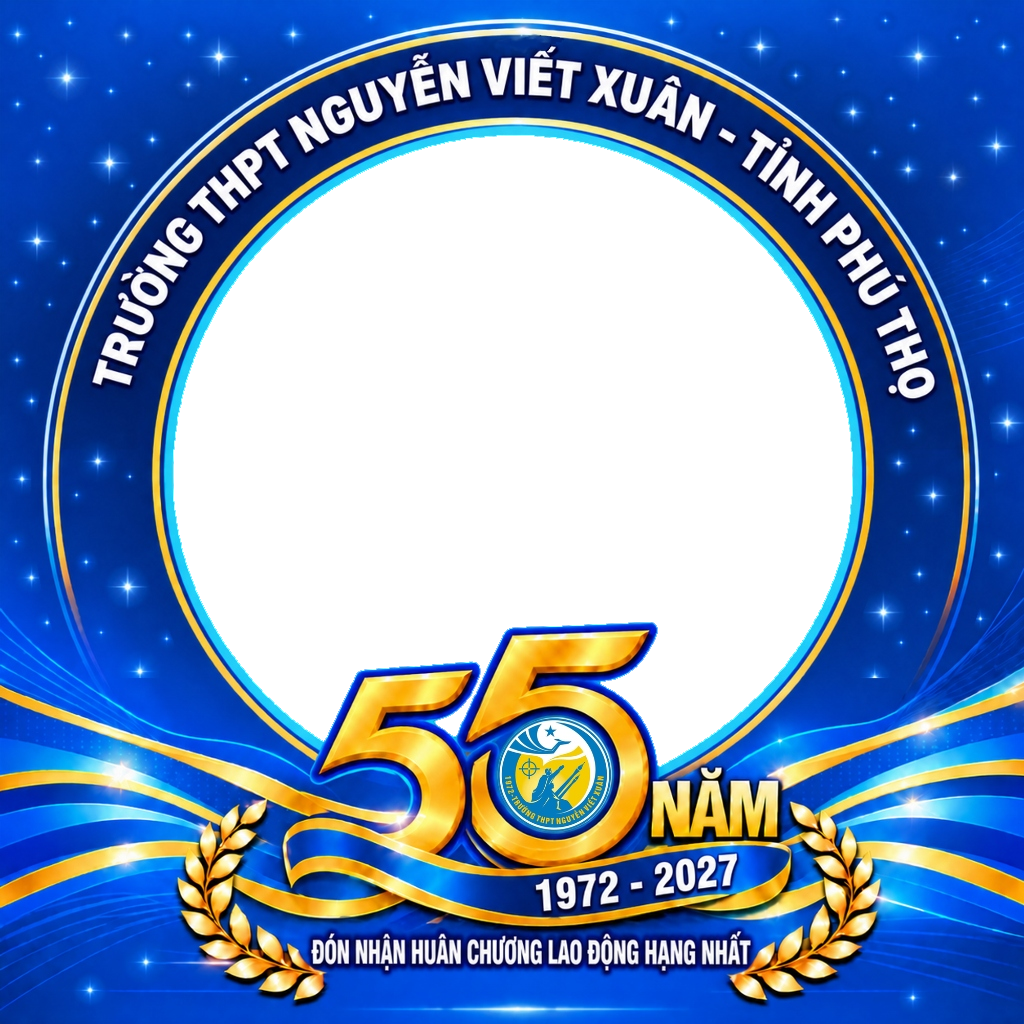
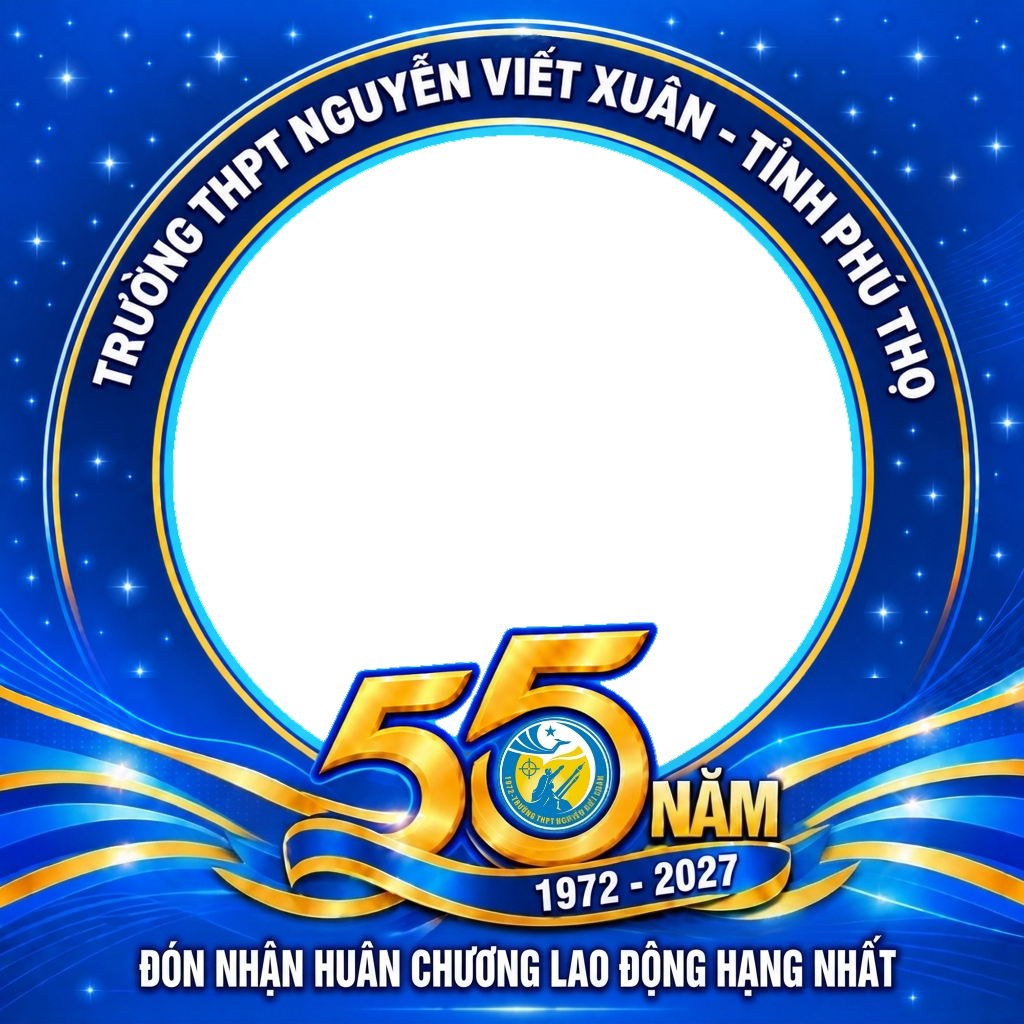
feat: remove bottom laurel branches and enlarge DON NHAN HUAN CHUONG LAO DONG HANG NHAT text (v11)

diff --git a/index.html b/index.html
@@ -12,7 +12,7 @@
   <link rel="preconnect" href="https://fonts.googleapis.com" />
   <link rel="preconnect" href="https://fonts.gstatic.com" crossorigin />
   <link href="https://fonts.googleapis.com/css2?family=Be+Vietnam+Pro:wght@400;500;600;700;800&display=swap" rel="stylesheet" />
-  <link rel="stylesheet" href="./src/styles.css?v=10" />
+  <link rel="stylesheet" href="./src/styles.css?v=11" />
 </head>
 <body>
   <main id="appShell" class="app-shell" data-view-mode="desktop">
@@ -273,6 +273,6 @@
     </div>
   </main>
 
-  <script type="module" src="./src/app.js?v=10"></script>
+  <script type="module" src="./src/app.js?v=11"></script>
 </body>
 </html>

diff --git a/src/app.js b/src/app.js
@@ -7,7 +7,7 @@ import {
   detectDefaultViewMode,
   computePinchZoom,
   shouldUseModalImageSave,
-} from './compositor.js?v=10';
+} from './compositor.js?v=11';
 
 const appShell = document.getElementById('appShell');
 const modeDesktopBtn = document.getElementById('modeDesktopBtn');
@@ -234,7 +234,7 @@ function initFrame() {
   img.onerror = () => {
     setStatus('Không thể tải khung ảnh mẫu. Vui lòng tải lại trang.', 'error');
   };
-  img.src = './assets/frame.png?v=10';
+  img.src = './assets/frame.png?v=11';
 }
 
 uploadBtn.addEventListener('click', () => photoInput.click());
